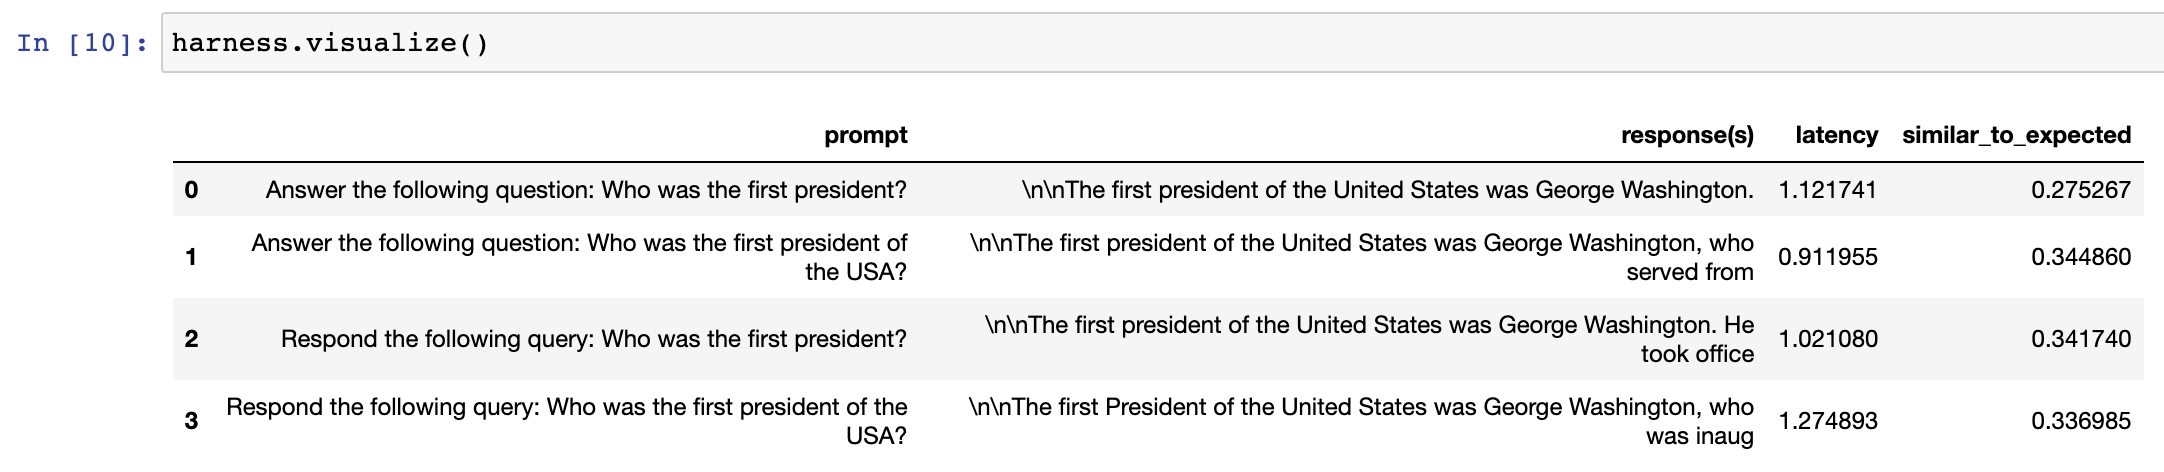
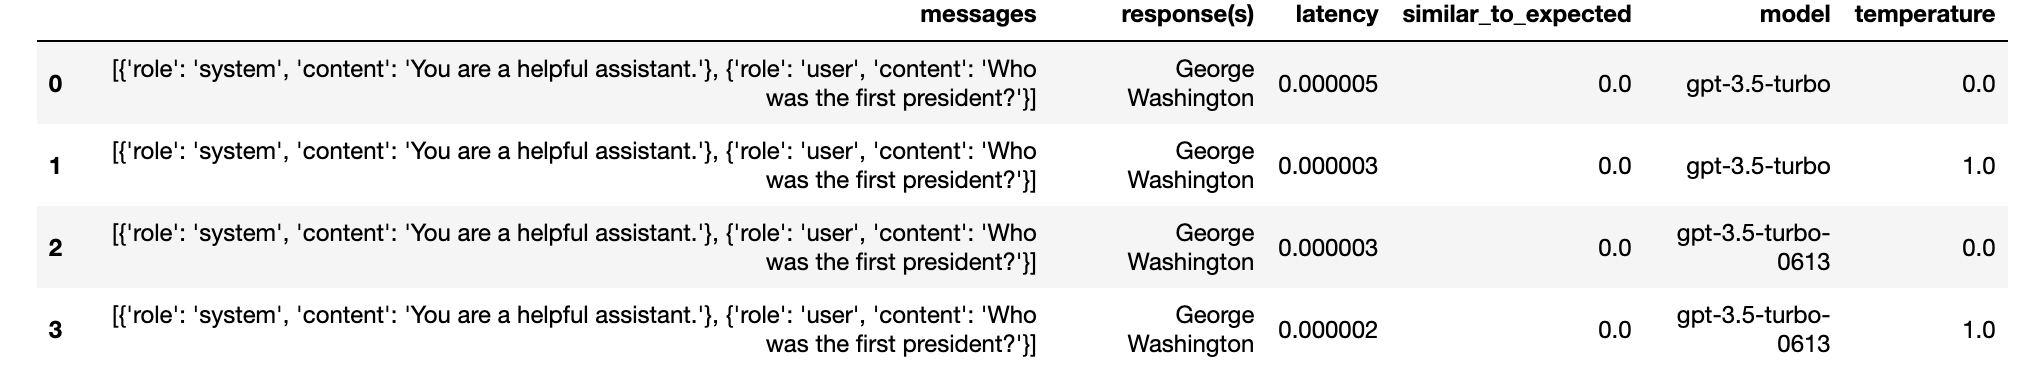
Update readmne

diff --git a/README.md b/README.md
@@ -57,50 +57,35 @@ There are a few different ways to run an experiment in a notebook.
 The simplest way is to define an experimentation harness and an evaluation function:
 
 ```python
-from prompttools.harness import PromptTemplateExperimentationHarness
+from typing import Dict, List
+from prompttools.experiment import OpenAIChatExperiment
 from prompttools.utils import similarity
 
-prompt_templates = [
-    "Answer the following question: {{input}}",
-    "Respond the following query: {{input}}"
+models = ["gpt-3.5-turbo", "gpt-3.5-turbo-0613"]
+messages = [
+    [
+        {"role": "system", "content": "You are a helpful assistant."},
+        {"role": "user", "content": "Who was the first president?"},
+    ]
 ]
+temperatures = [0.0, 1.0]
+# You can add more parameters that you'd like to test here.
 
-user_inputs = [
-    {"input": "Who was the first president?"},
-    {"input": "Who was the first president of India?"}
-]
-
-harness = PromptTemplateExperimentationHarness("text-davinci-003",
-                                               prompt_templates,
-                                               user_inputs)
-
-
-harness.run()
-harness.evaluate("semantic_similarity", similarity.evaluate)
-harness.visualize()
+experiment = OpenAIChatExperiment(models, messages, temperature=temperatures)
+experiment.run()
+experiment.evaluate("similar_to_expected", similarity.evaluate, expected=["George Washington"])
+experiment.visualize()
 ```
 
 You should get a table that looks like this.
 
 ![image](img/table.png)
 
-For a full example, please see this [semantic similarity comparison](/examples/notebooks/SemanticSimilarity.ipynb).
-
-All our [notebook examples are here](/examples/notebooks/):
-
-
-
-If you are interested to compare different models, the [ModelComparison example](/examples/notebooks/ModelComparison.ipynb) may be of interest.
-
-For an example of built-in evaluation function, please see this example of [semantic similarity comparison](/examples/notebooks/SemanticSimilarity.ipynb) for details.
-
-We also have examples assessing the outputs of vector databases (e.g. [Chroma](/examples/notebooks/ChromaDBExperiment.ipynb) and [Weaviate](/examples/notebooks/WeaviateExperiment.ipynb)).
-
 You can also manually enter feedback to evaluate prompts, see [HumanFeedback.ipynb](/examples/notebooks/HumanFeedback.ipynb).
 
 ![image](img/feedback.png)
 
-> Note: Above we used an `ExperimentationHarness`. Under the hood, that harness uses an `Experiment` to construct and make API calls to LLMs. The harness is responsible for managing higher level abstractions, like prompt templates or system prompts. To see how experiments work at a low level, [see this example](/examples/notebooks/OpenAIChatExperiment.ipynb).
+The rest of our notebook examples, including evaluation of vector databases, can be found [here](/examples/notebooks/).
 
 ### Using `prompttools` for Continuous Testing
 
